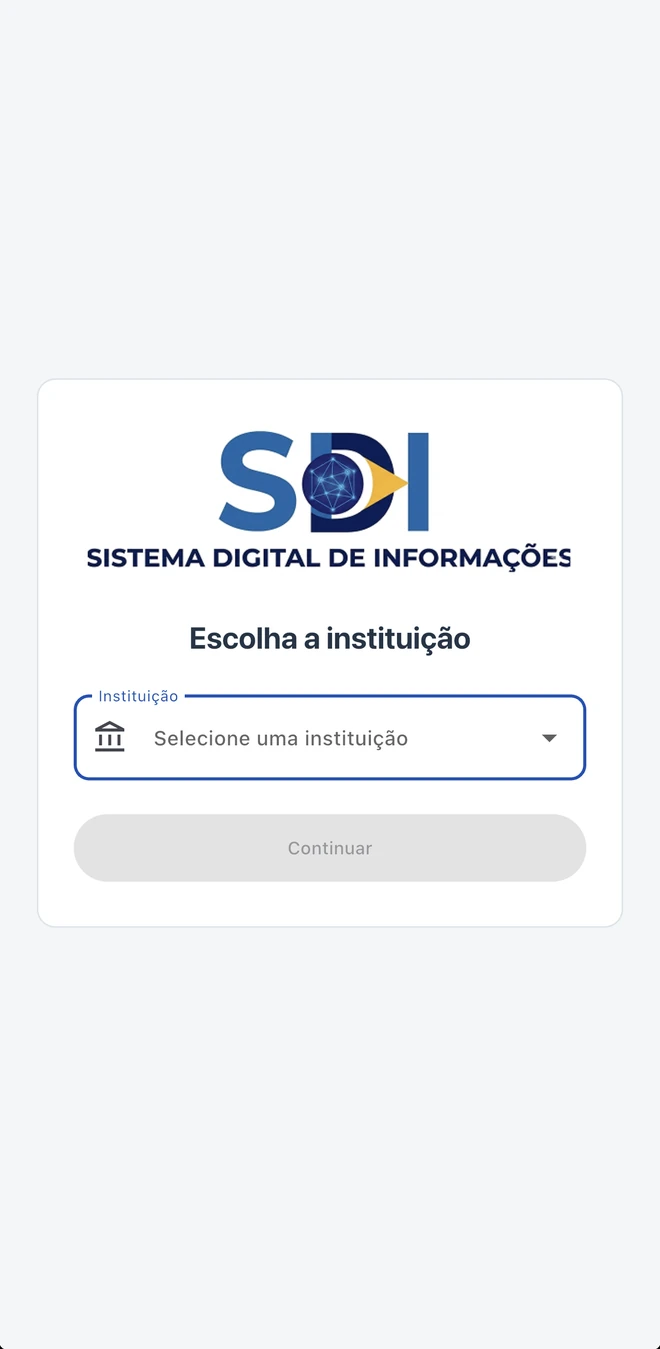
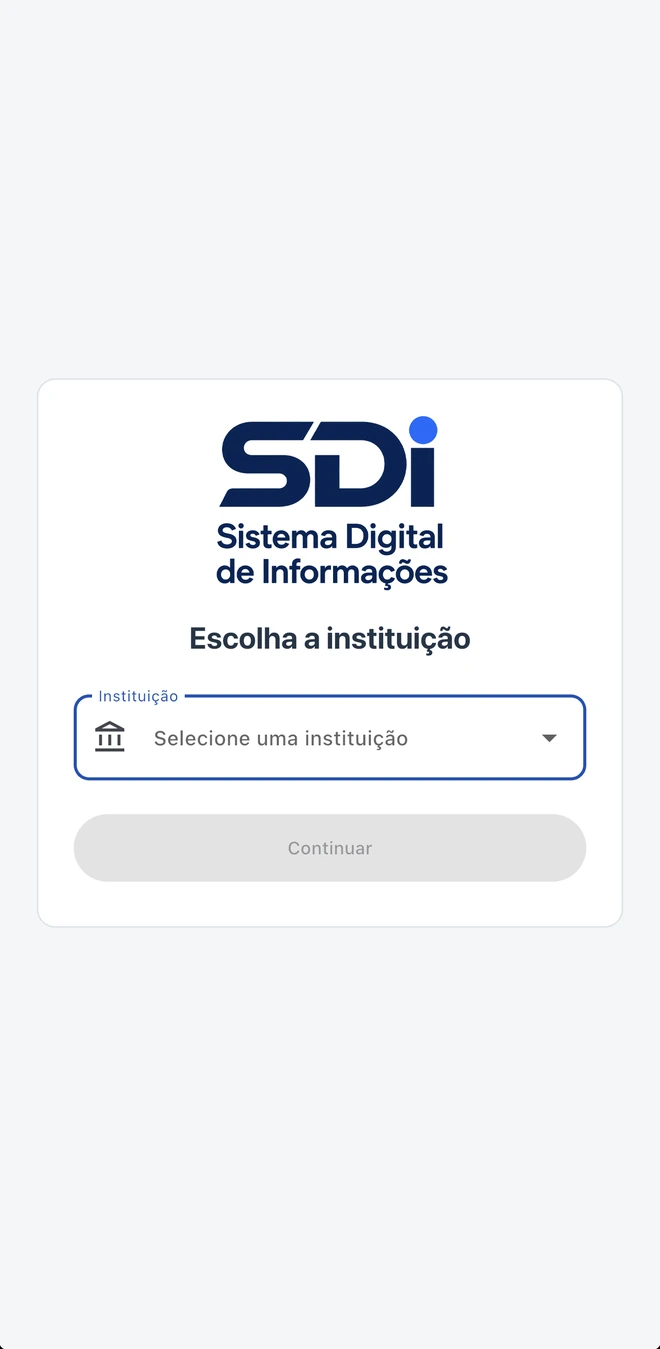
Atualiza a screenshot do hero e remove o eGoverna do site
Screenshot
Reexporta a tela "Escolha a instituição" com a logo nova do SDI, a mesma
da identidade do site.

Remoção do eGoverna
- sai a seção Ecossistema inteira (de 12 para 10 seções)
- saem o link no rodapé e a faixa "Uma solução eGoverna"
- saem os arquivos de logo e o CSS das duas peças

As marcas apareciam também DENTRO do print do painel, que vem de uma peça
institucional: a logo eGoverna na barra lateral dá lugar à do SDI, com a
mesma inclinação do monitor, e o selo "Libre" sai da barra superior.

Changed region(s): [[0.1212, 0.3113, 0.8788, 0.4359]]

diff --git a/index.html b/index.html
@@ -617,41 +617,7 @@
 </section>
 
 <!-- ==========================================================================
-     09. ECOSSISTEMA EGOVERNA
-     ========================================================================== -->
-<section class="section section--soft">
-  <div class="shell">
-    <div class="ecosystem reveal">
-
-      <div class="ecosystem__logos">
-        <img class="sdi-mark" src="assets/logos/sdi/sdi-azul.png" alt="SDI — Sistema Digital de Informações" width="420" height="311" loading="lazy">
-        <span class="ecosystem__plus" aria-hidden="true">
-          <svg width="14" height="14" viewBox="0 0 24 24" fill="none" stroke="currentColor" stroke-width="2" stroke-linecap="round"><path d="M12 5v14M5 12h14"/></svg>
-        </span>
-        <img src="assets/logos/egoverna/egoverna-preto.png" alt="eGoverna" width="360" height="131" loading="lazy">
-      </div>
-
-      <div class="stack" style="gap:18px;justify-items:center;max-width:680px">
-        <p class="eyebrow">Ecossistema eGoverna</p>
-        <h2 class="h2">Tecnologia integrada para transformar a gestão pública.</h2>
-        <p class="lead">
-          O SDI faz parte do ecossistema de soluções eGoverna, conectando tecnologia,
-          informação e serviços públicos em uma experiência digital.
-        </p>
-      </div>
-
-      <!-- TODO: confirmar a URL institucional do eGoverna -->
-      <a class="btn btn--secondary" href="https://www.egoverna.com.br" target="_blank" rel="noopener">
-        Conhecer o eGoverna
-        <svg width="16" height="16" viewBox="0 0 24 24" fill="none" stroke="currentColor" stroke-width="2" stroke-linecap="round" stroke-linejoin="round" aria-hidden="true"><path d="M7 17 17 7M9 7h8v8"/></svg>
-      </a>
-
-    </div>
-  </div>
-</section>
-
-<!-- ==========================================================================
-     10. CTA FINAL
+     09. CTA FINAL
      ========================================================================== -->
 <section class="section section--dark">
 
@@ -861,8 +827,6 @@
       <nav aria-label="Institucional">
         <p class="footer__title">Institucional</p>
         <div class="footer__links">
-          <!-- TODO: confirmar a URL institucional do eGoverna -->
-          <a href="https://www.egoverna.com.br" target="_blank" rel="noopener">eGoverna</a>
           <a href="politica-de-privacidade.html">Política de Privacidade</a>
           <a href="termos-de-uso.html">Termos de Uso</a>
         </div>
@@ -882,10 +846,6 @@
 
     <div class="footer__bottom">
       <p>&copy; <span data-year>2026</span> SDI — Sistema Digital de Informações. Todos os direitos reservados.</p>
-      <p class="footer__ecosystem">
-        <span>Uma solução</span>
-        <img src="assets/logos/egoverna/egoverna-branco.png" alt="eGoverna" width="360" height="97" loading="lazy" style="height:20px;width:auto">
-      </p>
     </div>
 
   </div>

diff --git a/assets/css/style.css b/assets/css/style.css
@@ -1417,47 +1417,6 @@ p {
   color: var(--color-blue-400);
 }
 
-/* — 20. Ecossistema eGoverna — */
-.ecosystem {
-  display: grid;
-  gap: 32px;
-  justify-items: center;
-  text-align: center;
-  padding: clamp(40px, 6vw, 64px);
-  border-radius: var(--radius-xl);
-  border: 1px solid var(--color-border-soft);
-  background: var(--color-white);
-  box-shadow: var(--shadow-sm);
-}
-
-.ecosystem__logos {
-  display: flex;
-  align-items: center;
-  gap: clamp(20px, 4vw, 36px);
-  flex-wrap: wrap;
-  justify-content: center;
-}
-
-.ecosystem__logos img {
-  height: 32px;
-  width: auto;
-}
-
-.ecosystem__logos .sdi-mark {
-  height: 38px;
-}
-
-.ecosystem__plus {
-  width: 34px;
-  height: 34px;
-  display: grid;
-  place-items: center;
-  border-radius: 50%;
-  border: 1px solid var(--color-border);
-  color: var(--color-text-muted);
-  flex: none;
-}
-
 /* — 21. CTA final — */
 .cta-final {
   position: relative;
@@ -1645,19 +1604,6 @@ p {
   padding-block: 26px;
   border-top: 1px solid rgb(255 255 255 / 0.1);
   font-size: 0.8125rem;
-}
-
-.footer__ecosystem {
-  display: flex;
-  align-items: center;
-  gap: 10px;
-  font-size: 0.8125rem;
-}
-
-.footer__ecosystem img {
-  height: 20px;
-  width: auto;
-  opacity: 0.9;
 }
 
 /* ==========================================================================

diff --git a/404.html b/404.html
@@ -139,7 +139,6 @@
       <nav aria-label="Institucional">
         <p class="footer__title">Institucional</p>
         <div class="footer__links">
-          <a href="https://www.egoverna.com.br" target="_blank" rel="noopener">eGoverna</a>
           <a href="politica-de-privacidade.html">Política de Privacidade</a>
           <a href="termos-de-uso.html">Termos de Uso</a>
         </div>
@@ -157,10 +156,6 @@
 
     <div class="footer__bottom">
       <p>&copy; <span data-year>2026</span> SDI — Sistema Digital de Informações. Todos os direitos reservados.</p>
-      <p class="footer__ecosystem">
-        <span>Uma solução</span>
-        <img src="assets/logos/egoverna/egoverna-branco.png" alt="eGoverna" width="360" height="97" loading="lazy" style="height:20px;width:auto">
-      </p>
     </div>
 
   </div>

diff --git a/politica-de-privacidade.html b/politica-de-privacidade.html
@@ -230,7 +230,6 @@
       <nav aria-label="Institucional">
         <p class="footer__title">Institucional</p>
         <div class="footer__links">
-          <a href="https://www.egoverna.com.br" target="_blank" rel="noopener">eGoverna</a>
           <a href="politica-de-privacidade.html">Política de Privacidade</a>
           <a href="termos-de-uso.html">Termos de Uso</a>
         </div>
@@ -248,10 +247,6 @@
 
     <div class="footer__bottom">
       <p>&copy; <span data-year>2026</span> SDI — Sistema Digital de Informações. Todos os direitos reservados.</p>
-      <p class="footer__ecosystem">
-        <span>Uma solução</span>
-        <img src="assets/logos/egoverna/egoverna-branco.png" alt="eGoverna" width="360" height="97" loading="lazy" style="height:20px;width:auto">
-      </p>
     </div>
 
   </div>

diff --git a/termos-de-uso.html b/termos-de-uso.html
@@ -223,7 +223,6 @@
       <nav aria-label="Institucional">
         <p class="footer__title">Institucional</p>
         <div class="footer__links">
-          <a href="https://www.egoverna.com.br" target="_blank" rel="noopener">eGoverna</a>
           <a href="politica-de-privacidade.html">Política de Privacidade</a>
           <a href="termos-de-uso.html">Termos de Uso</a>
         </div>
@@ -241,10 +240,6 @@
 
     <div class="footer__bottom">
       <p>&copy; <span data-year>2026</span> SDI — Sistema Digital de Informações. Todos os direitos reservados.</p>
-      <p class="footer__ecosystem">
-        <span>Uma solução</span>
-        <img src="assets/logos/egoverna/egoverna-branco.png" alt="eGoverna" width="360" height="97" loading="lazy" style="height:20px;width:auto">
-      </p>
     </div>
 
   </div>

diff --git a/LEIA-ME.md b/LEIA-ME.md
@@ -39,11 +39,10 @@ Coloque os arquivos em `assets/images/app/` e substitua o bloco
 
 | Tela | Situação |
 |---|---|
-| Login Gov.br | ✅ no hero e na Área do Cidadão |
-| Painel interno (dashboard) | ✅ na seção Gestão Pública |
-| Notebook com o SDI | ✅ no CTA final |
+| Escolha a instituição | ✅ no hero (screenshot real) |
+| Login Gov.br | ✅ na Área do Cidadão (screenshot real) |
+| Painel interno | ✅ na Gestão Pública e no CTA final |
 | Menu do aplicativo | ⏳ desenhado em CSS (`.app-menu`) — trocar pela screenshot |
-| Consulte seus processos | ⏳ placeholder no aparelho de trás do hero |
 
 ### 2. URLs de acesso ao sistema
 
@@ -82,7 +81,7 @@ controlador (razão social, CNPJ, endereço e contato do encarregado/DPO).
 ## Estrutura
 
 ```
-index.html                  Página principal (12 seções)
+index.html                  Página principal (10 seções)
 politica-de-privacidade.html
 termos-de-uso.html
 404.html
@@ -95,7 +94,6 @@ assets/
   js/main.js                5 módulos, sem dependências
   images/                   hero/ app/ mockups/ backgrounds/
   logos/sdi/                sdi-azul.png · sdi-branco.png · sdi-icone.png
-  logos/egoverna/           egoverna-preto.png · egoverna-branco.png
   icons/                    favicons e ícones de aplicativo
 ```
 
@@ -128,4 +126,6 @@ que contém `class="digital"` em `index.html`.
 - Sem overflow horizontal de 320px a 1920px
 - Zero dependências de framework, zero scripts externos
 - Logos otimizadas (a principal foi de 878 KB para 70 KB)
-- Mockups reais extraídos das peças institucionais, exportados em WebP (~73 KB cada)
+- Mockups reais em WebP (19 a 70 KB cada)
+- Sem menções ou logos do eGoverna: as marcas que apareciam dentro do print
+  do painel também foram substituídas
